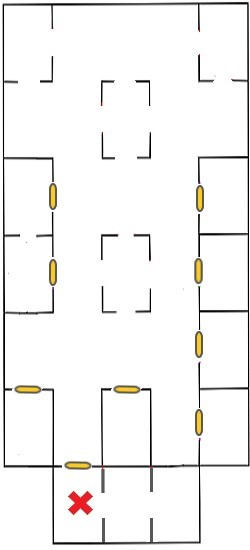
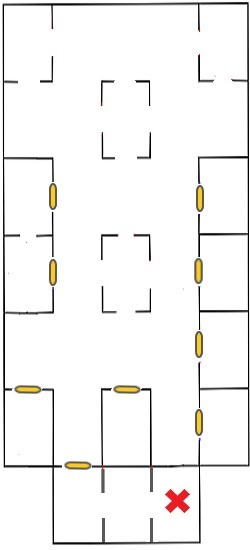
modif interface debut

Changed region(s): [[0.644, 0.8655, 0.756, 0.9582], [0.252, 0.8655, 0.392, 0.9582]]

diff --git a/WOR/src/wor/World.java b/WOR/src/wor/World.java
@@ -154,9 +154,9 @@ public class World {
         poolRoom = new Room("pool", "a small game of pool ?", poolRoomDoor, imagepoolRoom, mapimagepoolRoom);
         office = new Room("office", "the ideal place to work in peace", officeDoor, imageoffice,mapimageoffice);
         veranda = new Room("veranda", "a warm place to watch the garden during winter", verandaDoor, imageveranda,mapimageveranda);
-        barn1 = new Room("barn 1", "the first barn of the house", null, imagebarn1,mapimagebarn3);
+        barn1 = new Room("barn 1", "the first barn of the house", null, imagebarn1,mapimagebarn1);
         barn2 = new Room("barn 2", "the second barn of the house", null, imagebarn2,mapimagebarn2);
-        barn3 = new Room("barn 3", "a third small barn", barn3Door, imagebarn3,mapimagebarn1);
+        barn3 = new Room("barn 3", "a third small barn", barn3Door, imagebarn3,mapimagebarn3);
         garden = new Room("garden", "a big beautiful garden", null, imagegarden,mapimagegarden);
         hall = new Room("hall", "the hall of the house, to welcome visitors", null, imagehall,mapimagehall);
         smallHall = new Room("small hall", "a second small hall", smallHallDoor, imagesmallHall,mapimagesmallHall);
